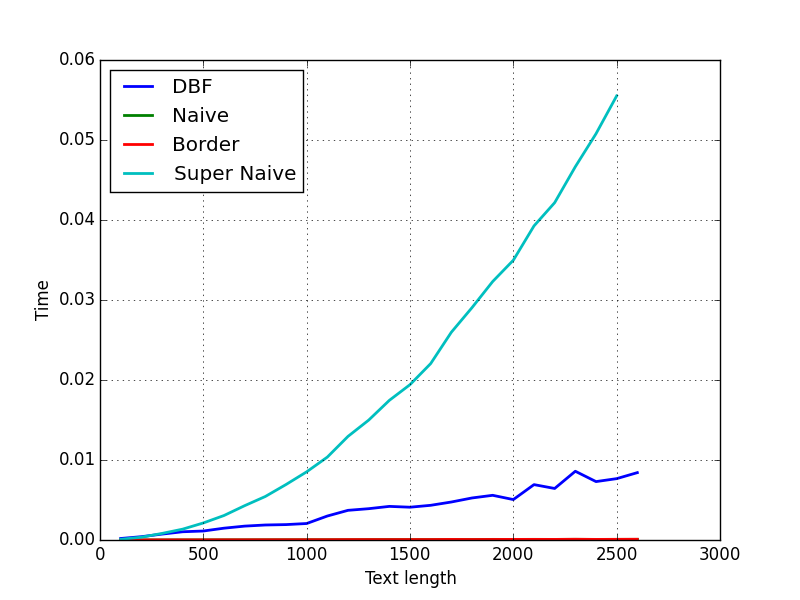
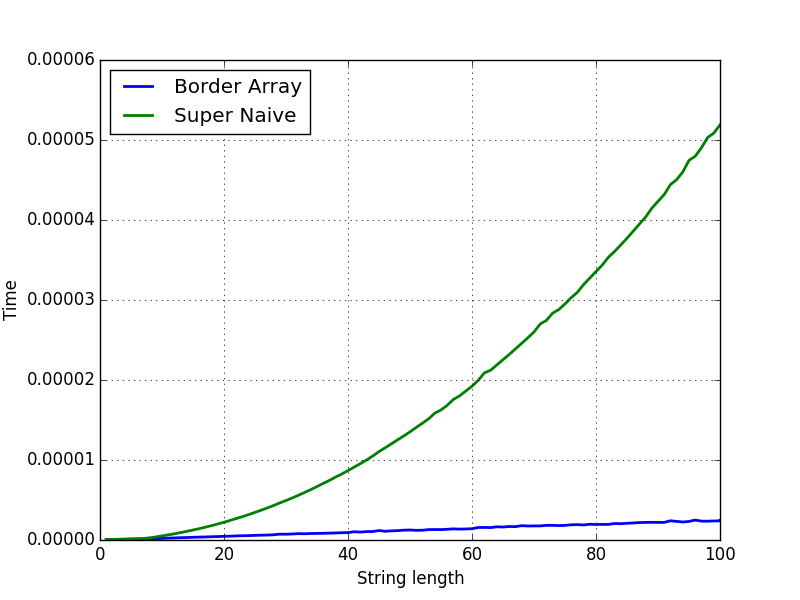
time data

diff --git a/src/py/graph_time.py b/src/py/graph_time.py
@@ -1,0 +1,22 @@
+# -*- coding: utf-8 -*-
+"""
+"""
+import pylab as pl
+import numpy as np
+
+
+
+if __name__ == '__main__':
+    with open('time.txt') as fd:
+        lines = fd.read().strip().splitlines()
+        super_naive = [l.split()[1:] for l in lines if l.startswith('MAXBORDERLESS_SUPER_NAIVE') and int(l.split()[1]) < 101]
+        border = [l.split()[1:] for l in lines if l.startswith('MAXBORDERLESS_BORDER_FAST') and int(l.split()[1]) < 101]
+
+        pl.plot(*zip(*border), linewidth=2, label='Border Array')
+        pl.plot(*zip(*super_naive), linewidth=2, label='Super Naive')
+
+        pl.xlabel('String length')
+        pl.ylabel('Time')
+        pl.legend(loc=2)
+        pl.grid()
+        pl.savefig('time.png')
